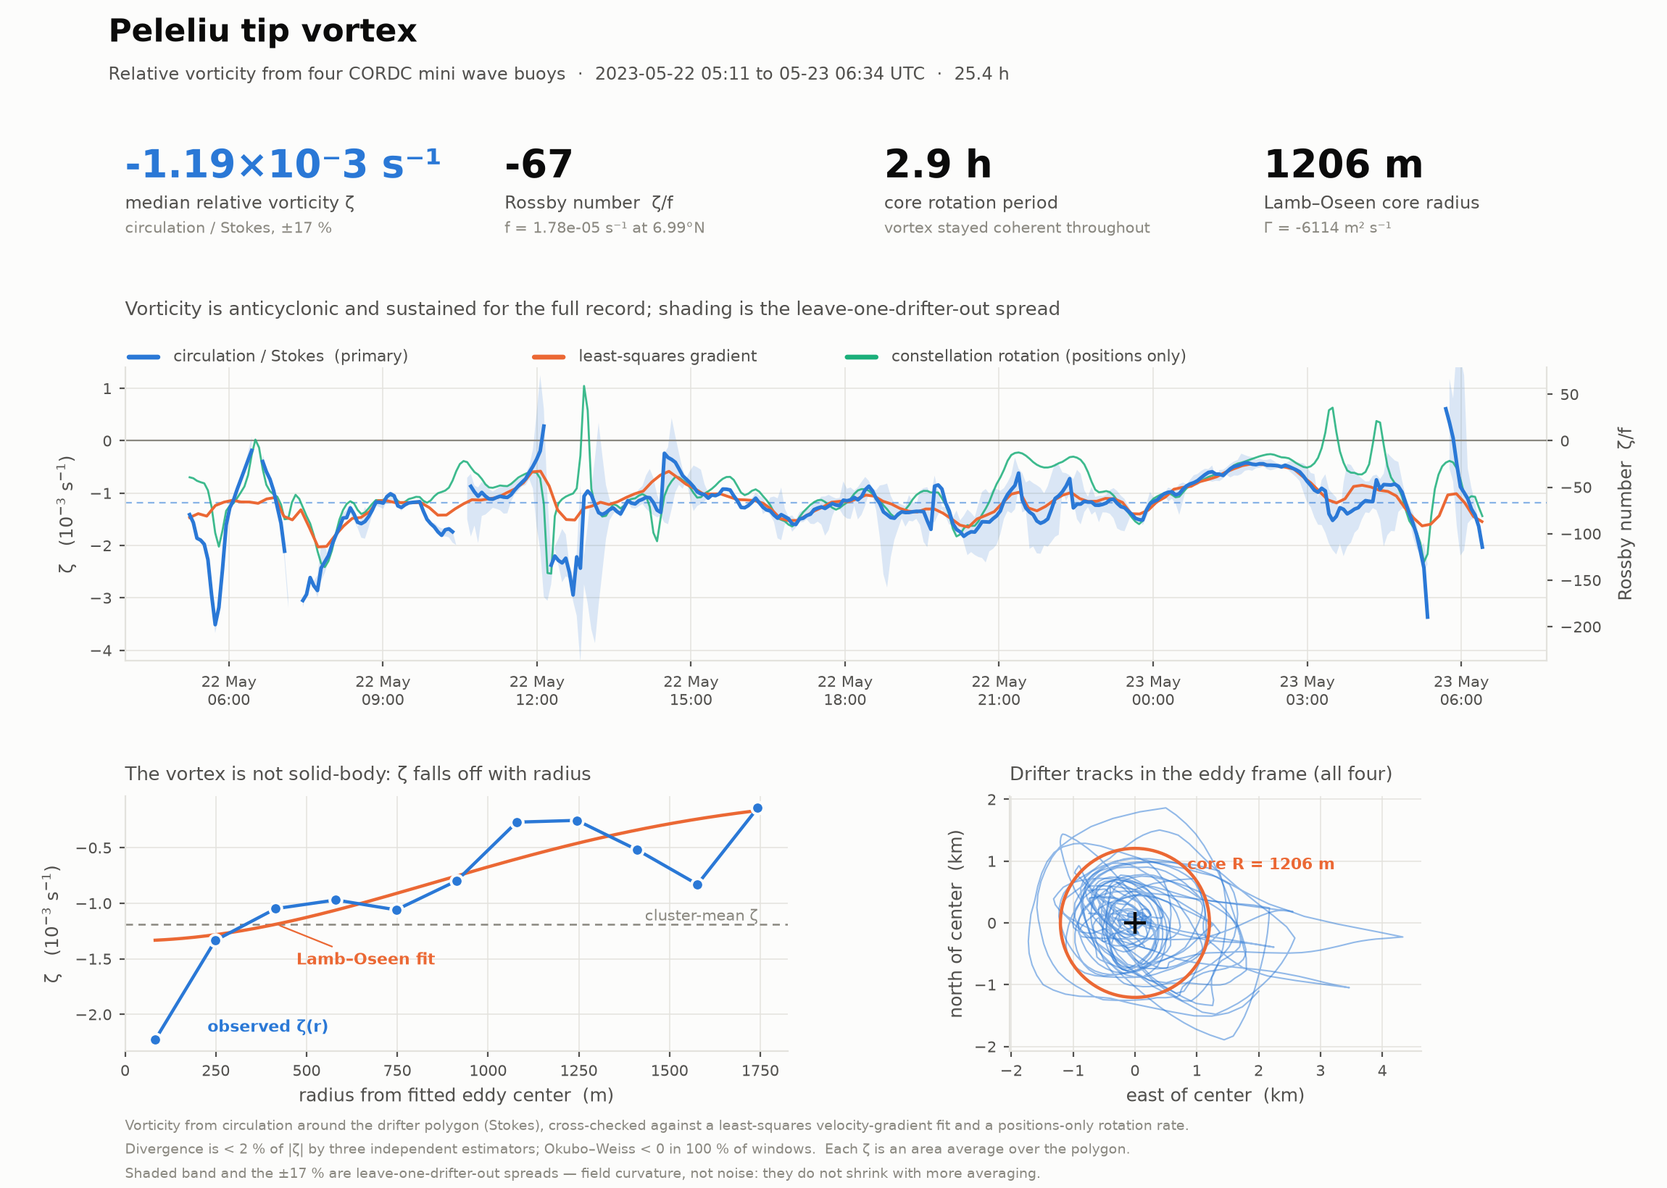
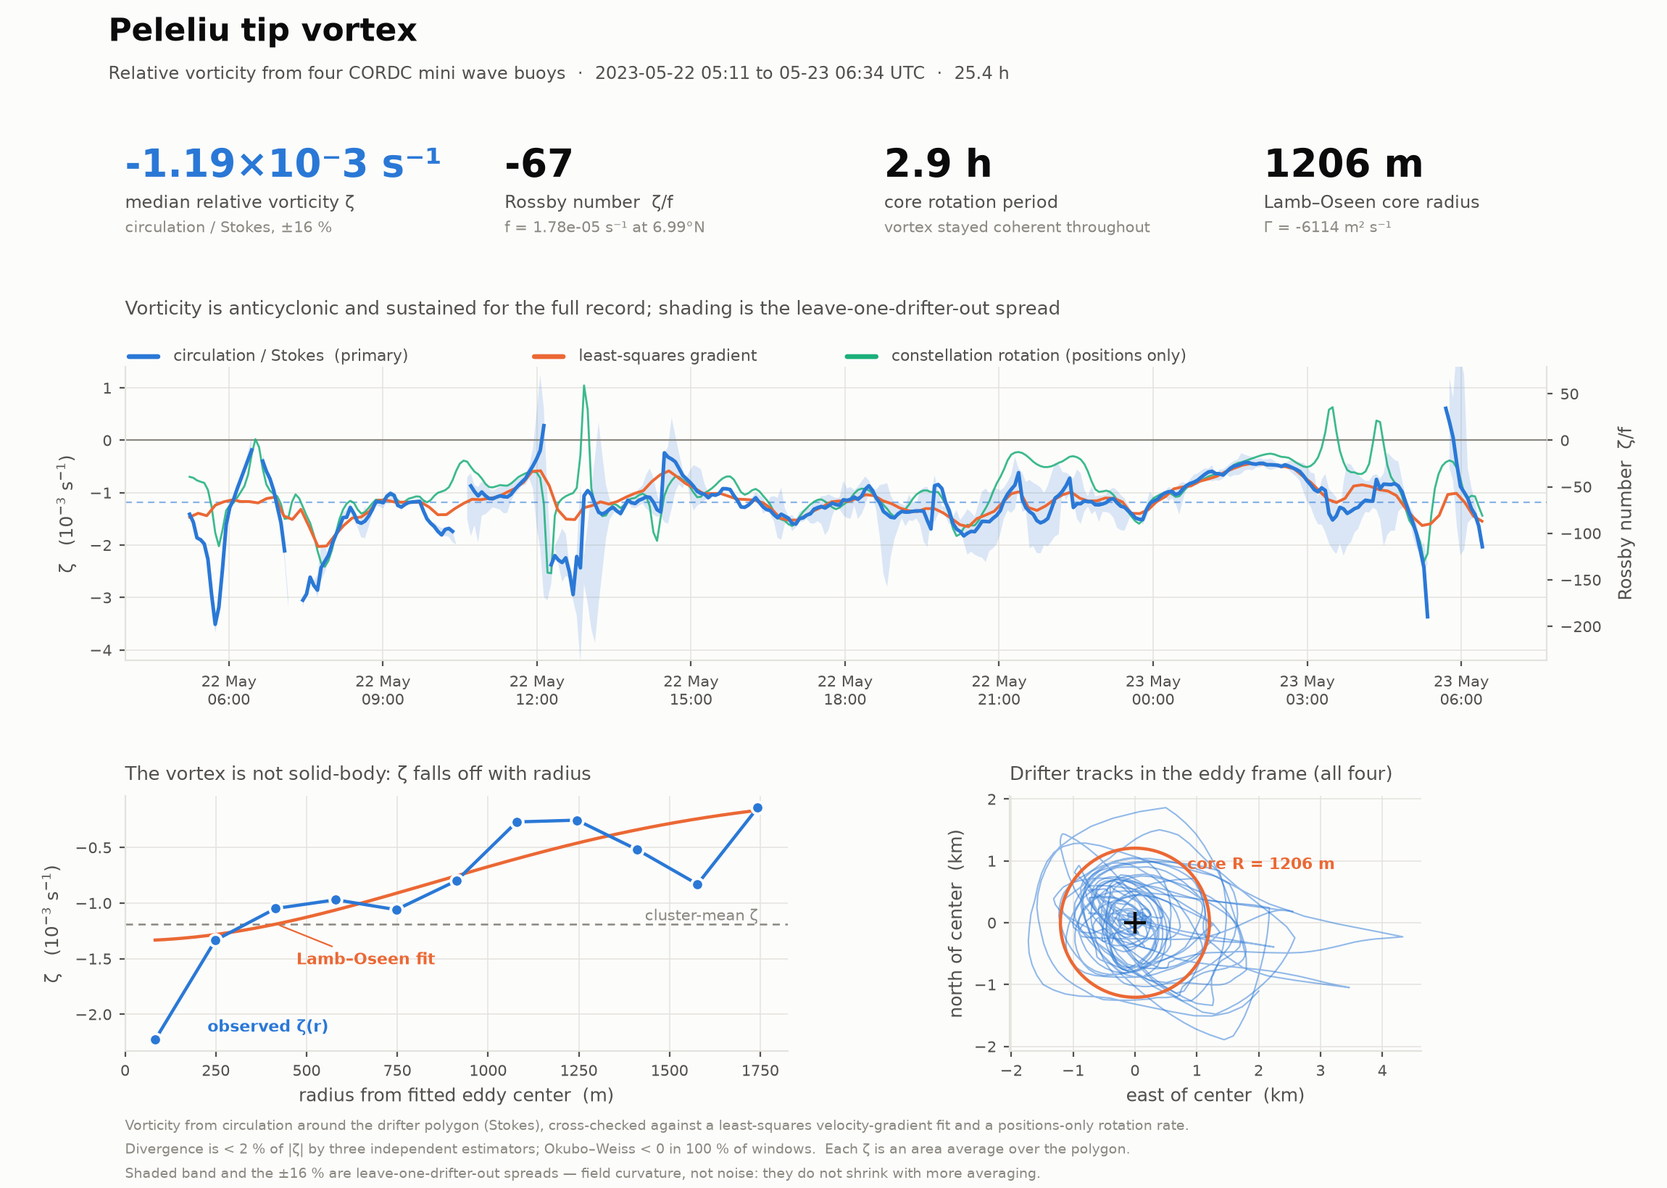
Measured tip jet resolves the circulation budget; C05 rotation 19.5 deg
- Circulation budget: the "2-3x more forcing than one M2 half-cycle at the
  measured 0.64 m/s tip current" used the pressure-gradient current that
  PRESSURE_ANALYSIS.md section 4 withdraws. The R/V Thompson wh300 measured
  the tip jet directly (0.99-1.15 m/s on 05-22 04:52-05:22, ~60 m thick;
  Hydrographer-Analysis code/peleliu_tip_adcp.py). int U^2/2 dt from the
  westward onset to the first drifter fix is 40-60 % of |Gamma|; the rest
  within ~2 h: no shortfall. The vortex is 60-80 m deep. DRIFTER_ANALYSIS.md
  section 7, PRESSURE_ANALYSIS.md section 7, docs/02 rewritten; papers/README.md
  entries 8 and 17 keep their reasoning with dated updates.
- C05 absolute rotation: exp(-i 19.5 deg), not 14.4. The Sig1000 reads 1.6 deg
  clockwise of the Thompson wh300 (160 pairs within 0.3 km); the 6.6 deg came
  from a network fit that predates that check (Pat). Axis 118.5/298.5 deg;
  events and E/W labels unchanged (0.00 % flip). Event-list header updated.
  New src/c05_events.py regenerates the axis, regimes and events for any
  rotation and reproduces the 14.4 deg numbers.
- Summary figure: the leave-one-out spread is computed, not hardcoded as the
  pre-gate 17 % (now 16 %); figures/summary.png regenerated.

Claude-Session: https://claude.ai/code/session_01Ddod7613mjWLdYFLETnnoE

diff --git a/src/c05_events.py b/src/c05_events.py
@@ -1,0 +1,116 @@
+"""C05 rotation, principal axis, subtidal regimes and the high-flow event list.
+
+Regenerates data/adcp/c05_high_flow_events.csv from data/adcp/c05_depth_avg.npz
+(stored WITHOUT the compass rotation) for a chosen absolute rotation.
+
+    python3 src/c05_events.py                      # the adopted rotation (19.5 deg)
+    python3 src/c05_events.py --rotation 14.4      # the superseded one, for comparison
+    python3 src/c05_events.py --write              # also rewrite the CSV
+
+The rotation is W_corr = W * exp(-i * rotation).  C05 reads 21.09 deg counterclockwise of
+the Sig1000 (complex transfer, WAMOS; reproduced here as 21.00 deg).  The Sig1000 in turn
+reads 1.6 deg clockwise of the R/V Thompson wh300 over the crest (160 pairs within 0.3 km,
+Hydrographer-Analysis notes/10 section 2; MAD 2.1 deg), so C05 reads 21.09 - 1.6 = 19.5
+deg counterclockwise of true.  The earlier 14.4 deg used a 6.6 deg Signature offset from a
+network fit that predates the Thompson cross-check (Pat Welch, 2026-10-05).
+
+Definitions (match PRESSURE_ANALYSIS.md section 4):
+  principal axis   eigenvector of the east/north covariance, as a bearing in [90, 270)
+                   for the positive end; ellipticity = sqrt(minor/major eigenvalue)
+  along            velocity on that axis, + toward the axis bearing
+  subtidal         daily means (UTC days) of the along-axis velocity
+  events           contiguous runs of |along| above its 85th percentile lasting > 1 h;
+                   direction from the sign of the along-axis velocity at the peak
+"""
+import argparse
+import datetime as dt
+import os
+
+import numpy as np
+
+HERE = os.path.dirname(os.path.dirname(os.path.abspath(__file__)))
+ADOPTED = 19.5
+
+
+def load():
+    d = np.load(f"{HERE}/data/adcp/c05_depth_avg.npz")
+    return d["time_ms"] / 1000.0, d["east"].astype(float) + 1j * d["north"].astype(float)
+
+
+def axis(w):
+    C = np.cov(np.vstack([w.real, w.imag]))
+    ev, V = np.linalg.eigh(C)
+    major = V[:, 1]
+    bearing = np.degrees(np.arctan2(major[0], major[1])) % 360
+    if not 90 <= bearing < 270:
+        bearing = (bearing + 180) % 360
+    return bearing, np.sqrt(ev[0] / ev[1])
+
+
+def analyse(rotation, write=False):
+    t, w = load()
+    wc = w * np.exp(-1j * np.radians(rotation))
+    b, ell = axis(wc)
+    u = np.array([np.sin(np.radians(b)), np.cos(np.radians(b))])
+    along = wc.real * u[0] + wc.imag * u[1]
+    day = np.floor(t / 86400).astype(int)
+    dmean = {k: along[day == k].mean() for k in np.unique(day)}
+    sub = np.array([dmean[k] for k in day])
+    agree = np.mean(np.sign(along) == np.sign(sub))
+    thr = np.percentile(np.abs(along), 85)
+    hi = np.abs(along) > thr
+    events = []
+    i = 0
+    while i < len(hi):
+        if hi[i]:
+            j = i
+            while j + 1 < len(hi) and hi[j + 1] and t[j + 1] - t[j] < 1800:
+                j += 1
+            if t[j] - t[i] > 3600:
+                k = i + np.argmax(np.abs(along[i:j + 1]))
+                events.append((t[i], t[j], (t[j] - t[i]) / 3600, along[k] * 100, "EAST" if along[k] > 0 else "WEST"))
+            i = j + 1
+        else:
+            i += 1
+    ne = sum(e[4] == "EAST" for e in events)
+    print(f"rotation {rotation:.1f} deg: principal axis {b:.1f}/{(b + 180) % 360:.1f} deg true, ellipticity {ell:.2f}")
+    print(f"  sd east {wc.real.std()*100:.1f}, north {wc.imag.std()*100:.1f} cm/s; threshold {thr*100:.1f} cm/s")
+    print(f"  sign(total) = sign(subtidal daily mean) {agree*100:.0f} %")
+    print(f"  events > 1 h: {len(events)} ({ne} east, {len(events) - ne} west)")
+    may = [e for e in events if dt.datetime.fromtimestamp(e[0], dt.timezone.utc).strftime("%Y-%m") == "2023-05"]
+    for e in may:
+        if dt.datetime.fromtimestamp(e[0], dt.timezone.utc).day in (21, 22, 23):
+            print(f"    {dt.datetime.fromtimestamp(e[0], dt.timezone.utc):%m-%d %H:%M} - "
+                  f"{dt.datetime.fromtimestamp(e[1], dt.timezone.utc):%m-%d %H:%M}  peak {e[3]:+.0f} cm/s {e[4]}")
+    print("  May 2023 daily subtidal (cm/s):", " ".join(
+        f"{dt.datetime.fromtimestamp(k*86400, dt.timezone.utc):%d}:{dmean[k]*100:+.0f}" for k in sorted(dmean)
+        if dt.datetime.fromtimestamp(k*86400, dt.timezone.utc).strftime("%Y-%m") == "2023-05"
+        and dt.datetime.fromtimestamp(k*86400, dt.timezone.utc).day >= 14))
+    if write:
+        fn = f"{HERE}/data/adcp/c05_high_flow_events.csv"
+        with open(fn, "w") as fp:
+            fp.write(f'"# C05 depth-averaged current, absolute rotation exp(-i*{rotation:.1f}deg) applied (src/c05_events.py)"\n')
+            fp.write(f'"# along principal axis {b:.1f}/{(b + 180) % 360:.1f} deg true; +=toward {b:.0f}, -=toward {(b + 180) % 360:.0f}"\n')
+            fp.write("start_utc,end_utc,duration_h,peak_along_cm_s,direction\n")
+            for e in events:
+                fp.write(f"{dt.datetime.fromtimestamp(e[0], dt.timezone.utc):%Y-%m-%dT%H:%M:%S},"
+                         f"{dt.datetime.fromtimestamp(e[1], dt.timezone.utc):%Y-%m-%dT%H:%M:%S},"
+                         f"{e[2]:.2f},{e[3]:.1f},{e[4]}\n")
+        print("  wrote", fn)
+    return dict(axis=b, ell=ell, along=along, events=events)
+
+
+def main():
+    ap = argparse.ArgumentParser(description=__doc__, formatter_class=argparse.RawDescriptionHelpFormatter)
+    ap.add_argument("--rotation", type=float, default=ADOPTED, help="absolute rotation, deg (default %(default)s)")
+    ap.add_argument("--write", action="store_true", help="rewrite data/adcp/c05_high_flow_events.csv")
+    a = ap.parse_args()
+    r = analyse(a.rotation, a.write)
+    if a.rotation != 14.4:
+        old = analyse(14.4)
+        flip = np.mean(np.sign(old["along"]) != np.sign(r["along"]))
+        print(f"  along-axis sign changes vs 14.4 deg: {flip*100:.2f} % of ensembles")
+
+
+if __name__ == "__main__":
+    main()

diff --git a/src/eddy_summary_figure.py b/src/eddy_summary_figure.py
@@ -61,6 +61,9 @@ def build(npz, out, dark=False):
     z, sp = r["zeta_circ"], r["zeta_jk_spread"]
     zj = r["zeta_jk"]
     med = np.nanmedian(z)
+    # leave-one-out spread as a percentage, computed exactly as eddy_analysis.py reports it
+    # (was hardcoded "17 %", the value before the minor-axis gate; it is now 16 %)
+    loo = 100 * np.nanmedian(np.abs(sp / zj))
 
     fig = plt.figure(figsize=(11.5, 8.2), facecolor=P["surface"])
     gs = fig.add_gridspec(3, 4, height_ratios=[.42, 1.15, 1.0],
@@ -76,7 +79,7 @@ def build(npz, out, dark=False):
 
     # ---- headline numbers -------------------------------------------------
     _tile(fig.add_subplot(gs[0, 0]), f"{med:.2e}".replace("e-0", "×10⁻") + " s⁻¹",
-          "median relative vorticity ζ", "circulation / Stokes, ±17 %", P, P["s1"])
+          "median relative vorticity ζ", f"circulation / Stokes, ±{loo:.0f} %", P, P["s1"])
     _tile(fig.add_subplot(gs[0, 1]), f"{med/f:.0f}", "Rossby number  ζ/f",
           f"f = {f:.2e} s⁻¹ at 6.99°N", P)
     _tile(fig.add_subplot(gs[0, 2]), f"{2*np.pi/abs(med/2)/3600:.1f} h",
@@ -175,7 +178,7 @@ def build(npz, out, dark=False):
              "least-squares velocity-gradient fit and a positions-only rotation rate.\n"
              "Divergence is < 2 % of |ζ| by three independent estimators; Okubo–Weiss < 0 in 100 % of "
              "windows.  Each ζ is an area average over the polygon.\n"
-             "Shaded band and the ±17 % are leave-one-drifter-out spreads — field curvature, not noise: "
+             f"Shaded band and the ±{loo:.0f} % are leave-one-drifter-out spreads — field curvature, not noise: "
              "they do not shrink with more averaging.",
              fontsize=7, color=P["ink3"], va="top", linespacing=1.7)
 

diff --git a/DRIFTER_ANALYSIS.md b/DRIFTER_ANALYSIS.md
@@ -303,32 +303,48 @@ removes. See `PRESSURE_ANALYSIS.md` §6.
 
 ## 7. Open work
 
-**Circulation budget.** Γ = −5400 to −6100 m² s⁻¹ needs roughly 2–3× more
-forcing than one M2 half-cycle at the measured 0.64 m/s tip current supplies.
-Either flow past the tip exceeds the array-averaged value, or circulation
-accumulates over several cycles. The Thompson ADCP spot measurements could
-discriminate.
+**Circulation budget — resolved by the Thompson ADCP (2026-10-05).**
 
-*Both horns now have supporting evidence, and they are not exclusive.*
+*Reversal.* This section previously said Γ needs roughly 2–3× more forcing than
+one M2 half-cycle at "the measured 0.64 m/s tip current". That 0.64 m/s was the
+M2 current from the Peleliu sea-level gradient, which `PRESSURE_ANALYSIS.md` §4
+withdraws. The 2–3× was U₀²T/8 = 2,289 m² s⁻¹ (shedding rate U²/2 over a
+sinusoidal half-cycle) against |Γ| = 5,400–6,100.
 
-For the second horn — circulation accumulating over several cycles — MacKinnon
-et al. (2019) measured at Palau's separation point where tides and sheared
-low-frequency flow act together, and conclude that including high-frequency
-oscillatory currents boosts the net flux of vorticity into the interior by a
-depth-dependent factor of **2 to 25**, warning that models omitting them
-misestimate momentum and energy loss. A 2–3× shortfall sits at the bottom of
-that range. Neither horn is confirmed for our event.
+*The measurement.* R/V *Thompson* sat 0.5–2 km from the tip (Pe2) from 05-21
+23:00 to 05-22 05:00 UTC, at ~1 m/s. Its wh300, 10–40 m mean within 3 km of the
+tip (Hydrographer-Analysis `code/peleliu_tip_adcp.py`, `notes/12` §7):
 
-For the first horn: Johnston et al.
-(2019) report that flow "intensifies" at the south point as it is constrained
-around the topography, and that the velocity difference across the wake eddy
-**exceeds 1 m/s** — against our array-averaged 0.64 m/s, a factor ~1.6 on
-Γ ~ UL. They also give an intrinsic shedding timescale of ~6 h from a Strouhal
-scaling (St ~ 0.2, L = 2 km, U = 0.5 m/s), close enough to the 6.2 h M2
-half-cycle that they suggest the tide "may effectively generate eddies." A
-1.6× stronger tip flow over a comparable interval plausibly closes a 2–3× gap.
-**Still a hypothesis** — it rests on their numbers at their moorings, not ours,
-and the Thompson ADCP remains the discriminating measurement.
+| UTC, 05-22 | flow past the tip |
+|---|---|
+| to 00:52 | southward, 0.1–0.26 m/s |
+| 01:00 | turns westward, 0.15–0.23 m/s |
+| 03:00–03:52 | 0.54–0.80 m/s |
+| 04:52–05:22 | **0.99–1.15 m/s**, toward 283–301° |
+
+At its strongest the jet is 1.1–1.2 m/s from 10 to 50 m and fades to 0.25 m/s
+by 85 m: about **60 m thick**. C05 (rotated 19.5°) tracks it from 02:00 on, at
+a jet/C05 ratio of 1.11 (0.70–1.46).
+
+*The budget.* ∫U²/2 dt from the 01:00 westward onset to 05:14, when the
+drifters were first in the eddy, is 2,391 m² s⁻¹ from the ship's own samples (a
+lower bound: the ship was not always in the jet core) and 3,311 m² s⁻¹ from
+C05 scaled to the jet (1,308–5,784 over the ratio range): **40–60 % of |Γ|**.
+At the measured strength the jet supplies the rest by ~07:00, and the whole
+westward event (to 11:12 at C05) sheds 3–4× |Γ|. So the first horn holds, by
+direct measurement: the flow past the tip is ~1.1 m/s, not 0.64, and **there is
+no shortfall** — one westward half-cycle is enough. Where the excess shed
+vorticity goes (shear layer, other eddies, friction) is not tested.
+
+*Depth.* In the eddy frame the ADCP's azimuthal velocity at 0.5–1.5 km is −0.47
+to −0.56 m/s over 10–40 m (drifters at the surface −0.41 to −0.46), −0.19 to
+−0.24 at 40–80 m, and ~0 below 80 m. **The vortex is 60–80 m deep**, as deep as
+the jet that made it.
+
+The earlier two-horn discussion (tip flow stronger than 0.64 m/s, or
+circulation accumulating over several cycles, after Johnston et al. 2019 and
+MacKinnon et al. 2019) is kept in `papers/README.md` entries 8 and 17 as the
+reasoning of its time.
 
 Two dimensionless numbers from that paper are worth adopting and are not
 currently computed anywhere here: an effective Reynolds number

diff --git a/PRESSURE_ANALYSIS.md b/PRESSURE_ANALYSIS.md
@@ -238,24 +238,39 @@ transfer against the Sig1000 (4–14 m band, |v| > 0.15 m/s):
 | angle | +21.09° | **+21.00°** (n = 2958) |
 
 Corrections are complex multipliers: `W·exp(−i·21.09°)` maps the Workhorse
-into the Sig1000 frame, and since SIG is itself +6.6° off true, the absolute
-correction is **`W_corr = W · exp(−i·14.4°)`**. The skew is stable — +20.2 to
-+21.7° in every 5-day chunk of the deployment.
+into the Sig1000 frame. The Sig1000 itself reads 1.6° clockwise of the
+R/V *Thompson* wh300 over the crest (160 pairs within 0.3 km, MAD 2.1°;
+Hydrographer-Analysis `notes/10` §2), so C05 reads 21.09 − 1.6 = 19.5°
+counterclockwise of true and the absolute correction is
+**`W_corr = W · exp(−i·19.5°)`**. The skew is stable — +20.2 to +21.7° in every
+5-day chunk of the deployment.
+
+> **Corrected 2026-10-05.** This section previously gave `exp(−i·14.4°)` and an
+> axis of 113.4°/293.4°. That used a 6.6° Signature offset from a WAMOS network
+> fit that predates the Thompson cross-check; Pat Welch: trust the Thompson
+> number. The along-axis velocity, every event and every east/west label are
+> unchanged, because the principal axis rotates with the data (0.00 % of
+> ensembles change sign). `src/c05_events.py` regenerates the numbers below for
+> either rotation and reproduces the earlier ones at 14.4°.
 
 After correction:
 
 | | |
 |---|---|
-| principal axis | **113.4° / 293.4° true**, ellipticity 0.35 |
-| depth-averaged sd | 55.5 (east) / 21.3 (north) cm/s, max speed 220 cm/s |
-| phase-locked tide | 17 % east, 10 % north |
+| principal axis | **118.5° / 298.5° true**, ellipticity 0.35 |
+| depth-averaged sd | 55.5 (along) / 21.3 (cross) cm/s, max speed 220 cm/s — rotation-invariant (`src/c05_events.py` gives 56.1 / 19.7); earlier labeled east/north |
+| phase-locked tide | 17 % east, 10 % north (computed in the 14.4° frame; a 5° rotation mixes the components by sin 5° ≈ 9 %; not recomputed) |
 | **direction set by** | **subtidal flow** — sign(total) = sign(subtidal) 73 % of the time |
 
 The tide supplies 61 % of the along-axis *variance* but the subtidal flow sets
 the *sign*. That matters for shedding direction.
 
 **Event list**: `c05_high_flow_events.csv` — 141 events longer than 1 h above
-the 85th percentile (81 m/s threshold): **81 eastward, 60 westward**.
+the 85th percentile (81 cm/s threshold): **81 eastward, 60 westward**. The list
+is unchanged by the corrected rotation; only its header (axis bearing) changed.
+Its original generator was never committed; `src/c05_events.py` reimplements
+it and gets 138 events (77 east, 61 west) and the same 2023-05-22 04:12–11:12
+westward event, the difference being gap handling.
 
 The east/west labels are **insensitive to the rotation** (0.0 % of ensembles
 change sign under it), because the flow is strongly rectilinear. The rotation
@@ -398,11 +413,12 @@ by the subtidal flow, and the May 2023 regimes make a specific prediction
 the full multi-year C05 record. Note this supersedes the earlier plan to use
 pressure-derived tidal phase, which does not work (§4).
 
-**Circulation budget.** The observed eddy circulation Γ = −6114 m² s⁻¹ needs
-roughly 2–3× more forcing than one M2 half-cycle at the measured 0.64 m/s tip
-current would supply. Either the flow past the tip exceeds the array-averaged
-value or circulation accumulates over several cycles. The Thompson ADCP spot
-measurements could discriminate.
+**Circulation budget — resolved (2026-10-05).** The earlier "2–3× more forcing
+than one M2 half-cycle at the measured 0.64 m/s tip current" used the
+pressure-gradient current that §4 withdraws. The Thompson wh300 measured the
+tip jet directly: 0.99–1.15 m/s at 04:52–05:22 on 05-22, ~60 m thick. With it,
+the circulation shed by 05:14 is 40–60 % of |Γ|, and the westward event sheds
+3–4× |Γ|: no shortfall. See `DRIFTER_ANALYSIS.md` §7.
 
 **Unverified instrument rates.** CTD ~2 Hz, Sig1000 16 Hz, MicroRiders 1 kHz
 are from memory and have not been checked against the files. The MicroRiders

diff --git a/papers/README.md b/papers/README.md
@@ -361,6 +361,12 @@ factor ~1.6 on Γ ~ UL. Combined with a 6 h shedding timescale against a 6.2 h
 M2 half-cycle, that plausibly closes the gap — **hypothesis, not settled**, and
 the discriminating measurement is still the Thompson ADCP.
 
+> **Update 2026-10-05.** Settled, for the first horn. The "array-averaged
+> 0.64 m s⁻¹" was the withdrawn pressure-gradient current (`PRESSURE_ANALYSIS.md`
+> §4). The Thompson wh300 measured 0.99–1.15 m s⁻¹ at the tip on 05-22
+> 04:52–05:22, ~60 m thick, and the shed circulation it implies covers |Γ|
+> within one westward half-cycle (`DRIFTER_ANALYSIS.md` §7).
+
 Two dimensionless numbers worth carrying over, both new to this project:
 
 ```
@@ -674,6 +680,12 @@ second of the two horns in §7 ("circulation accumulates over several cycles")
 rather than the first. Together with entry 8's local flow intensification,
 **both horns now have supporting evidence and they are not exclusive.** Neither
 is confirmed for our event.
+
+> **Update 2026-10-05.** The 2–3× shortfall this entry addresses does not exist:
+> it rested on the withdrawn 0.64 m s⁻¹ pressure-gradient current. With the tip
+> jet measured by the Thompson (~1.1 m s⁻¹), one westward half-cycle supplies
+> |Γ| (`DRIFTER_ANALYSIS.md` §7). Multi-cycle accumulation is not needed for this
+> event, though not excluded.
 
 ### 18. Ohlmann et al. (2017) — submesoscale kinematics from drifter clusters
 

diff --git a/docs/02-vortex-structure.md b/docs/02-vortex-structure.md
@@ -376,11 +376,18 @@ residual.
 
 ### Circulation budget
 
-$\Gamma \approx -5400$ to $-6100\ \mathrm{m^2 s^{-1}}$ requires roughly 2–3×
-more forcing than one M2 half-cycle at the measured 0.64 m s⁻¹ tip current
-supplies. Either the flow past the tip exceeds the array-averaged value, or
-circulation accumulates over several tidal cycles. This is open work; the
-Thompson ADCP spot measurements could discriminate.
+A separating boundary layer sheds circulation at the rate $U^2/2$, with $U$ the
+speed just outside it, so the circulation shed over $[t_a, t_b]$ is
+$\int U^2/2\,dt$. For a sinusoidal current of amplitude $U_0$ over an M2
+half-cycle $T/2$ this is $U_0^2 T/8$.
+
+*Corrected 2026-10-05.* With $U_0 = 0.64$ m s⁻¹ that gives 2,289 m² s⁻¹, which
+is where the earlier "2–3× short" came from — but 0.64 m s⁻¹ was the withdrawn
+pressure-gradient current. The R/V *Thompson* measured the tip jet directly
+(0.99–1.15 m/s, ~60 m thick; `DRIFTER_ANALYSIS.md` §7). Integrated from the
+westward onset (05-22 01:00) to the first drifter fix in the eddy (05:14) it
+gives 2,400–3,300 m² s⁻¹, 40–60 % of $|\Gamma| \approx 5{,}400$–$6{,}100$, and the
+rest within ~2 h at the same strength: one westward half-cycle is enough.
 
 ## References
 

diff --git a/docs/06-pressure-and-sea-level.md b/docs/06-pressure-and-sea-level.md
@@ -168,8 +168,12 @@ ensembles gives **gain 0.983, angle +21.00°**, against the WAMOS project's
 independently derived 0.985 / +21.09° ($n = 2854$). Two analyses agreeing to
 0.09° is strong.
 
-The correct absolute correction is $W\cdot e^{-i\,14.4°}$, giving a principal
-axis of 113.4°/293.4°. Applying it changes east/west flow labels by 0.0 %,
+The Sig1000 itself reads 1.6° clockwise of the R/V *Thompson* wh300 over the
+crest (160 pairs within 0.3 km), so the absolute correction is
+$W\cdot e^{-i\,19.5°}$, giving a principal axis of 118.5°/298.5°. (Corrected
+2026-10-05: an earlier $e^{-i\,14.4°}$ and 113.4°/293.4° used a 6.6° Signature
+offset from a network fit that predates the Thompson cross-check.) Applying
+either changes east/west flow labels by 0.0 %,
 which is why the shedding-direction result of `PRESSURE_ANALYSIS.md` §8 is
 unaffected by it.
 

diff --git a/data/README.md b/data/README.md
@@ -60,7 +60,8 @@ temperature and the range bins. The per-bin velocity profiles are not kept.
 
 ⚠ **The rotation is NOT applied** to the stored velocities. C05's compass is
 skewed — suspected hard-iron from the iron anchor beneath it — and the
-correction is `W · exp(−i·14.4°)` absolute. Left to the analysis so the raw
+correction is `W · exp(−i·19.5°)` absolute (corrected 2026-10-05 from 14.4°;
+see `PRESSURE_ANALYSIS.md` §4). Left to the analysis so the raw
 instrument frame stays visible. See `PRESSURE_ANALYSIS.md` §4.
 
 **Excluded entirely**: `fits.mat` (72 MB, regenerable), the CORDC-delivered
